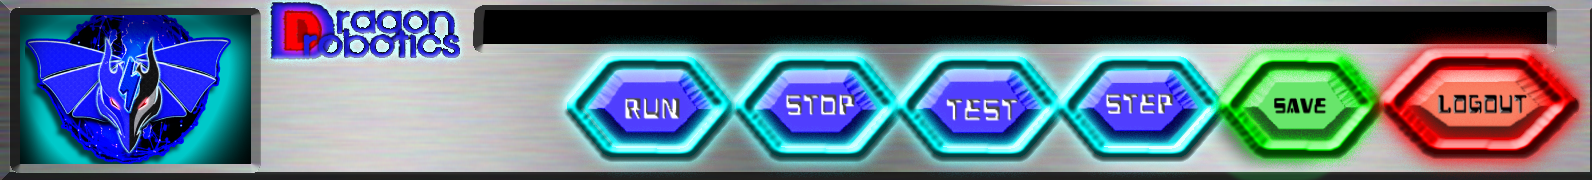
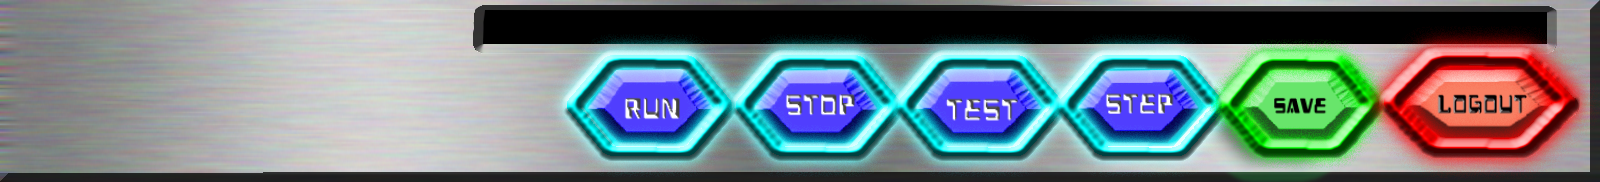
admin page css is on creation

diff --git a/admin.html b/admin.html
@@ -17,11 +17,8 @@
 
     <title>DRAGON DROBOTICS</title>
 
-    <!-- <link rel="stylesheet" href="resources/css/style.css" />
-  <link rel="stylesheet" href="resources/css/adminStyle.css" /> -->
-  
-  <link rel="stylesheet" href="Java/WebContent/resources/css/style.css" />
-  <link rel="stylesheet" href="Java/WebContent/resources/css/adminStyle.css" />
+    <link rel="stylesheet" href="Java/WebContent/resources/css/style.css" />
+    <link rel="stylesheet" href="Java/WebContent/resources/css/adminStyle.css" />
     <meta charset="utf-8">
     <meta name="viewport" content="width=device-width, initial-scale=1">
     <link rel="stylesheet" href="https://maxcdn.bootstrapcdn.com/bootstrap/3.4.0/css/bootstrap.min.css">
@@ -37,11 +34,10 @@
   <body>
     <div
       class="container-fluid"
-      style="position: absolute;bottom: 0px;top: 0px;left: 0px;right: 0px;padding: 0;"
+      style="position: absolute;bottom: 0px;top: 0px;left: 0px;right: 0px; padding: 0;"
     >
-    
-    <div class="navbarC">
-    	<div class="logoDivTopBar"></div>
+    <div class="navbarCAdmin">
+        <div class="logoDivTopBar"></div>
         <div class="inputDivTopBar">
           <input type="text" id="fsmName" placeholder="FSM Name"/>
         </div>
@@ -50,10 +46,11 @@
           <div style="width: 14%; height: 60px; margin-left: 15px; opacity: 0;" id="killButton" type="button" class="btn btn-info btn-lg" onclick="onKill()">Stop</div>
           <div style="width: 14%; height: 60px; margin-left: 15px; opacity: 0;" type="button" class="btn btn-info btn-lg" data-toggle="modal" data-target="#myModaltest" onclick="onTest()">Test</div>
           <div style="width: 14%; height: 60px; margin-left: 15px; opacity: 0;" id="stepButton" type="button" class="btn btn-info btn-lg" onclick="onStep()" >Step</div>
-          <div style="width: 14%; height: 60px; margin-left: 15px; opacity: 0;" type="button" class="btn btn-info btn-lg" onclick="save()">Save</div>
+          <div style="width: 14%; height: 60px; margin-left: 15px; opacity: 0;" type="button" class="btn btn-info btn-lg" data-toggle="modal" data-target="#myModal" onclick="onTest()">Load</div>
           <div style="width: 17%; height: 60px; margin-left: 15px; opacity: 0;" type="button" class="btn btn-info btn-lg" onclick="window.location.href='Logout'">Logout</div>
         </div>
-      </div>
+    </div>
+    
     <div class="modal fade" id="myModaltest" role="dialog">
       <div class="modal-dialog">
       
@@ -81,42 +78,77 @@
         
       </div>
     </div>
-          <div class="row" style="height: 85%;position: relative; overflow:hidden;">
-          <div class="col-2" style="border-right: 2px solid black; min-width: 160px;">
-            <div class="row states" style="position: relative;">
-              <h4 style="margin-bottom: 0px;">States</h4>
-              <div class="state-container stateOuterDiv-menu">
-              </div>
-            </div>
-            <div class="row behaviours" style="position: relative;">
-              <h4 style="margin: auto; margin-top: 10px;">Behaviours</h4>
-              <div class="col-6" style="float: left;">
-                <h6 class="behaviour">Forward(cm)</h6>
-                <h6 class="behaviour">Backward(cm)</h6>
-                <h6 class="behaviour">Turn Right(°)</h6>
-              </div>
-              <div class="col-6" style="float: left;">
-                <h6 class="behaviour">Turn Left(°)</h6>
-                <h6 class="behaviour">Spin(°)</h6>
-                <h6 class="behaviour">Stop</h6>
-              </div>
-              
-            </div>
-            <div class="row events" style="position: relative;">
-              <h4 style="    margin-bottom: 0px; margin-top: 5px;">Events</h4>
-              <div class="col-6" style="float: left; padding-right: 0px;">
-                <h6 id="noObstacle" class="eventlist" onclick="clickState()">No Obstacle</h6>
-                <h6 id="obstacleLeft" class="eventlist" onclick="clickState()">Obstacle Left</h6>
-                <h6 id="obstacleRight" class="eventlist" onclick="clickState()">Obstacle Right</h6>
-              </div>
-              <div class="col-6" style="float: left; padding-left: 0px;">
-                <h6 id="obstacleCenter" class="eventlist" onclick="clickState()">Obstacle Center</h6>
-                <h6 id="light" class="eventlist" onclick="clickState()">Light</h6>
-              </div>             
-            </div>
+    <div class="modal fade" id="myModal" role="dialog">
+      <div class="modal-dialog">
+      
+        <!-- Modal content-->
+        <div class="modal-content">
+          <div class="modal-header">
+            <button type="button" class="close" data-dismiss="modal">&times;</button>
           </div>
-          <canvas id="theCanvas" width=3000, height=3000> </canvas>
-          <div class="col-10 canvas"></div>
+          <div class="modal-body">
+          <div class="main-div">
+          <div class="tableUser">
+   				<table id="users">
+						<tr>
+							<th>Username</th>
+							<th>FSM ID</th>
+							<th>Actions</th>
+						</tr>
+
+						<!-- <% 
+							List<JSONFsm> FSMs = (List<JSONFsm>) request.getAttribute("FSMs");
+						
+							for(JSONFsm f : FSMs){
+						System.out.println(f.getJsonFsm());
+						%> -->
+						
+						<tr>
+							<!-- <td><%= f.getUser().getUsername() %></td>
+							<td><%= f.getId() %></td> -->
+							<td>
+								<form action="Load" style="display:inline" method="post">
+									<!-- <input type="hidden" id="<%= f.getId() + "fsmLoadButton" %>" name="fsm" value='<%= f.getLoadModel().getModel() %>'>
+									<input type="button" value="Load Model" onclick="loadModel(<%= (f.getId())%>)" class="buttonclass run">
+									<input type="hidden" id="<%= f.getId() + "fsmRunButton" %>" name="fsm" value=<%= f.getJsonFsm() %>> -->
+								</form>
+								
+								<form action="Delete" style="display:inline" method="post">
+									<input type="hidden" id="fsmDeleteButton" name="fsm" value="<%= f.getId() %>">
+									<input type="submit" value="Delete" class="buttonclass delete">
+								</form>
+								
+							</td>
+						</tr>
+						
+						<!-- <% } %> -->
+
+					</table>
+            </div>
+      </div>
+            
+            
+          </div>
+          <div class="modal-footer">
+            <button type="button" class="btn btn-default" data-dismiss="modal" onclick="">Close</button>
+          </div>
+        </div>
+        
+      </div>
+    </div>
+    <div class="row" style="height: 100%;position: relative; overflow:hidden;">
+        <div class="col-2" style="min-width: 160px;">
+          <div class="row buttonsLeft" style="position: relative;">
+            
+            <form action="Run" style="display:inline" method="post">
+				<input id="executejsonfsm" type="hidden" id="fsm" name="fsm">
+				<input type="submit" value="Run" class="buttonclass run" style="width: 125px;">
+			</form>
+          </div>
+        </div>
+	    	<canvas id="theCanvas" width=3000, height=3000> </canvas>
+        <div class="col-10 canvas"></div>
+        </div>
       </div>
     </div>
 	<!-- <script src="resources/javascripts/transform.js"></script>
@@ -126,8 +158,8 @@
     <script src="resources/javascripts/inputTest.js"></script>
 
     <script src="resources/javascripts/lines.js"></script> -->
-
-
+   
+   
     <script src="Java/WebContent/resources/javascripts/transform.js"></script>
 
     <script src="Java/WebContent/resources/javascripts/script.js"></script>
@@ -135,6 +167,7 @@
     <script src="Java/WebContent/resources/javascripts/inputTest.js"></script>
 
     <script src="Java/WebContent/resources/javascripts/lines.js"></script>
+
 	
   </body>
 </html>

diff --git a/Java/WebContent/resources/css/style.css b/Java/WebContent/resources/css/style.css
@@ -13,11 +13,12 @@ label {
   top: 0px;
   bottom: 0px;
   left: 0px;
-  height: 25%;
+  height: 45%;
   display: block;
   text-align: center;
-  border-bottom: 2px black solid;
-  padding-top: 20px;
+  padding-top: 120px;
+  padding-left: 69px;
+  padding-right: 69px;
 }
 .state-container {
   /* border: 2px solid black; */
@@ -31,7 +32,7 @@ label {
   background-repeat: no-repeat;
   background-size: contain;
   height:200px;
-  width: 200px;
+  width: 267px;
 }
 .stateOuterDiv-menu{
   background-image: url("State2.png");
@@ -94,14 +95,14 @@ label {
   top: 0px;
   bottom: 0px;
   left: 0px;
-  height: 41%;
+  height: 25%;
   display: block;
   text-align: center !important;
   /* border-bottom: 2px black solid; */
 
-  padding-top: 20px;
-  padding-left: 90px;
-  padding-right: 90px;
+  padding-top: 15px;
+  padding-left: 30px;
+  padding-right: 30px;
   
 }
 .behaviour {
@@ -163,7 +164,7 @@ label {
   top: 0px;
   bottom: 0px;
   left: 0px;
-  height: 35%;
+  height: 30%;
   display: block;
   text-align: center;
   padding-top: 20px;
@@ -200,12 +201,53 @@ label {
   background-repeat: no-repeat;
   background-size: 100% 100%;
 }
+.navbarCAdmin{
+  margin-left: -15px !important;
+  margin-right: -15px !important;
+  padding-left: -15px !important;
+  padding-right: -15px !important;
+  margin: 0 !important;
+  background-image: url("../images/top2Admin.png");
+  height: 150px;
+  width: 100%;
+  background-repeat: no-repeat;
+  background-size: 100% 100%;
+}
+.logoDivTopBar{
+  background-image: url("../images/logo-circle.png");
+  background-repeat: no-repeat;
+  background-size: 100% 100%;
+  height: 270px;
+  width: 270px;
+  float: left;
+  position: absolute;
+  z-index: 2;
+  /* margin-left: 5px; */
+}
 @font-face{
   font-family:'heavy_data';
   src: url('heavy_data.ttf');
  }
-body h5{
+body h4{
   font-family: 'heavy_data';
   color: #00ffff;
 }
 
+.buttonsLeft {
+  background-image: url("../images/admin-left.png");
+  background-repeat: no-repeat;
+  background-size: 100% 100%;
+  position: absolute;
+  top: 0px;
+  bottom: 0px;
+  left: 0px;
+  height: 80%;
+  display: block;
+  text-align: center !important;
+  /* border-bottom: 2px black solid; */
+
+  padding-top: 15px;
+  padding-left: 30px;
+  padding-right: 30px;
+  
+}

diff --git a/Java/WebContent/resources/css/adminStyle.css b/Java/WebContent/resources/css/adminStyle.css
@@ -105,8 +105,11 @@
 
 .run{
 	border: 1px solid #42cad4;
-    border-width: 1px 1px 3px;
-	background-color:#42cad4;
+  border-width: 1px 1px 3px;
+  background-color:#42cad4;
+  margin-top: 315px;
+  height: 90px;
+  opacity: 0;
 }
 .delete{
 	border: 1px solid #d44242;
